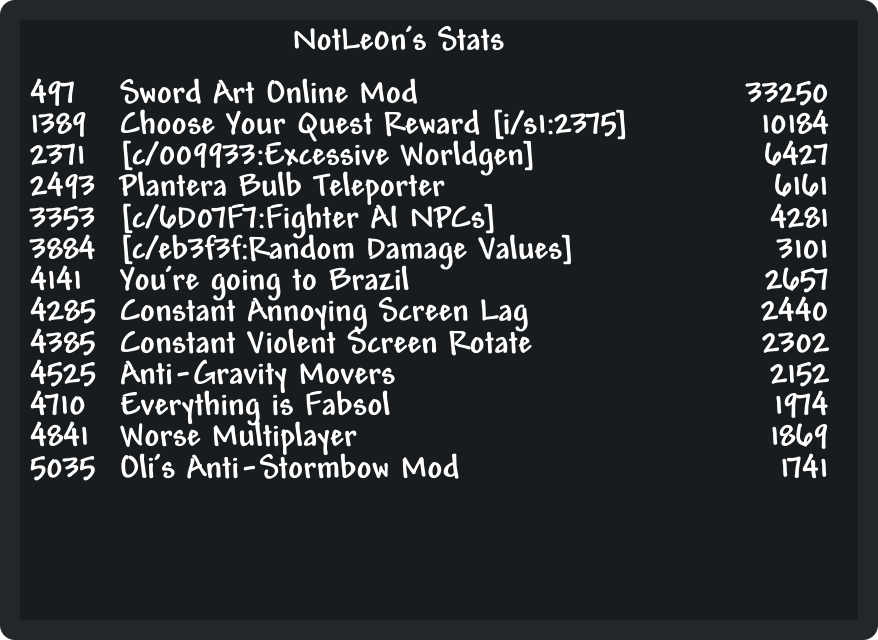
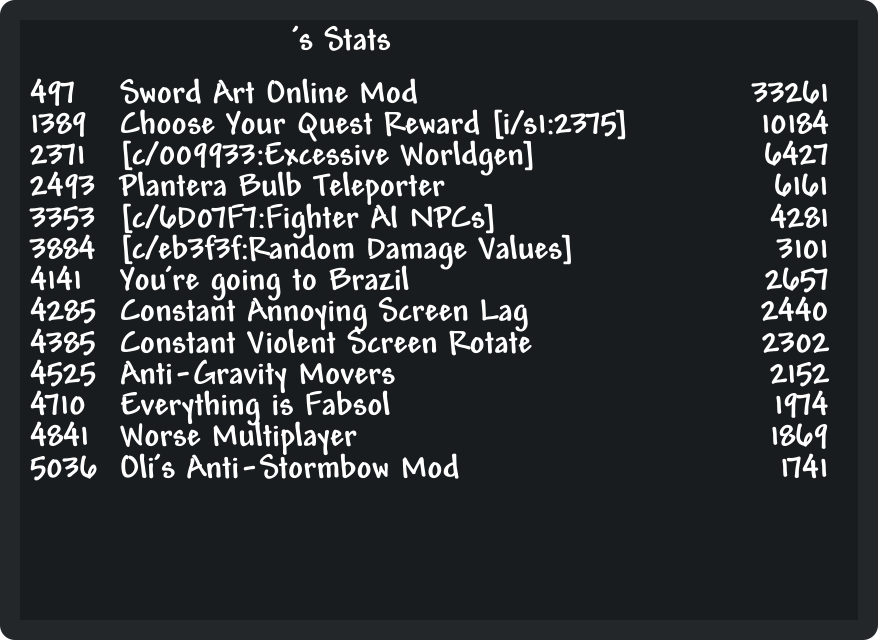
error handeling and get name through steamapi (not working)

Changed region(s): [[0.3383, 0.0312, 0.5843, 0.0938], [0.8303, 0.125, 0.9533, 0.1875], [0.0923, 0.7188, 0.123, 0.75]]

diff --git a/imagegen.go b/imagegen.go
@@ -2,16 +2,18 @@ package main
 
 import (
 	"encoding/json"
-	"fmt"
 	"image/color"
 	"net/http"
 	"os"
+  //"io/ioutil"
+  "log"
 
 	"path/filepath"
 	"strconv"
 	"time"
 
 	"github.com/fogleman/gg"
+
 )
 
 type Mod struct {
@@ -21,17 +23,36 @@ type Mod struct {
 	DownloadsYesterday int
 }
 
+type steamAcc struct {
+  Steamid string
+  Communityvisibilitystate int
+  Profilestate int
+  Personaname string
+  Profileurl string
+  Avatar string
+  Avatarmedium string
+  Avatarfull string
+  Avatarhash string
+  Lastlogoff string
+  Personastate int
+  Primaryclanid string
+  Timecreated int
+  Personastateflags int
+  Loccountrycode string
+}
+
+var mySecret = os.Getenv("steamAPIKey")
 var myClient = &http.Client{Timeout: 10 * time.Second}
 
 var mods []Mod
 
-func generateImage(steamId string) {
+func generateImage(steamId string) error {
 	getJson("https://tmlapis.thelonelysheep.repl.co/author_api/"+steamId, &mods)
-	fmt.Printf("mods : %+v", mods)
 
-	if err := run(); err != nil {
-		fmt.Fprintf(os.Stderr, "%s\n", err)
+	if err := run(steamId); err != nil {
+		return err
 	}
+  return nil
 }
 
 var imageWidth float64
@@ -40,7 +61,7 @@ var imageHeight float64
 const margin float64 = 20.0
 const padding float64 = 5.0
 
-func run() error {
+func run(steamId string) error {
 	imageWidth = 878.0
 	imageHeight = (35.0+padding)*float64(len(mods)) + (35 * 2) + margin*2 + 10
 	dc := gg.NewContext(int(imageWidth), int(imageHeight))
@@ -66,7 +87,15 @@ func run() error {
 	dc.Fill()
 
 	// Draw Text
-	DrawText(dc, "NotLe0n's Stats", imageWidth/3, margin*2+10)
+
+  var steamjson steamAcc
+
+  err := getJson("https://api.steampowered.com/ISteamUser/GetPlayerSummaries/v2/?key="+mySecret+"&steamids="+steamId, &steamjson)
+  if err != nil {
+    return err
+  }
+  log.Println(steamjson.Personaname)
+	DrawText(dc, steamjson.Personaname +"'s Stats", imageWidth/3, margin*2+10)
 	for i := 0; i < len(mods); i++ {
 		_, nameTextHeight := dc.MeasureString(mods[i].DisplayName)
 		dowloadsTextWidth, _ := dc.MeasureString(strconv.Itoa(mods[i].DownloadsTotal))
@@ -103,11 +132,12 @@ func ClampFloat(v float64, min float64, max float64) float64 {
 }
 
 func getJson(url string, target interface{}) error {
+  log.Println(url)
 	r, err := myClient.Get(url)
 	if err != nil {
 		return err
 	}
 	defer r.Body.Close()
 
-	return json.NewDecoder(r.Body).Decode(target)
+	return json.NewDecoder(r.Body).Decode(&target)
 }

diff --git a/server.go b/server.go
@@ -30,7 +30,12 @@ func generateImageHandler(w http.ResponseWriter, r *http.Request) {
 		return
 	}
 	q := r.URL.Query()
-	generateImage(q.Get("steamid"))
+	err := generateImage(q.Get("steamid"))
+  if err != nil {
+    log.Println(err.Error())
+    errorJson(w, err.Error(), http.StatusInternalServerError)
+    return
+  }
 	img, err := os.Open("output.png")
 	if err != nil {
 		log.Println("error opening output.png")
